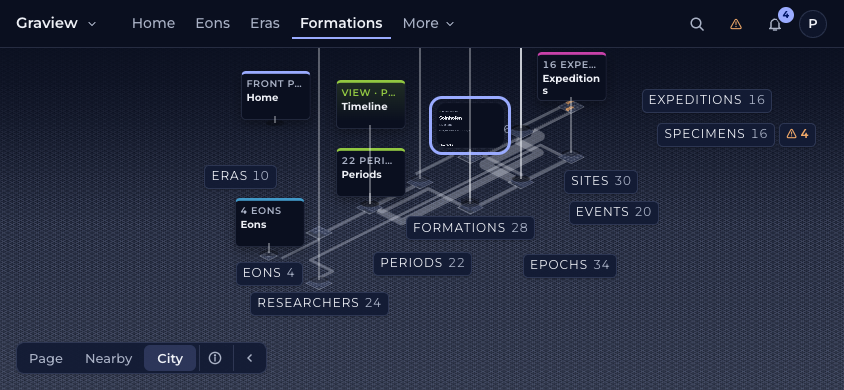
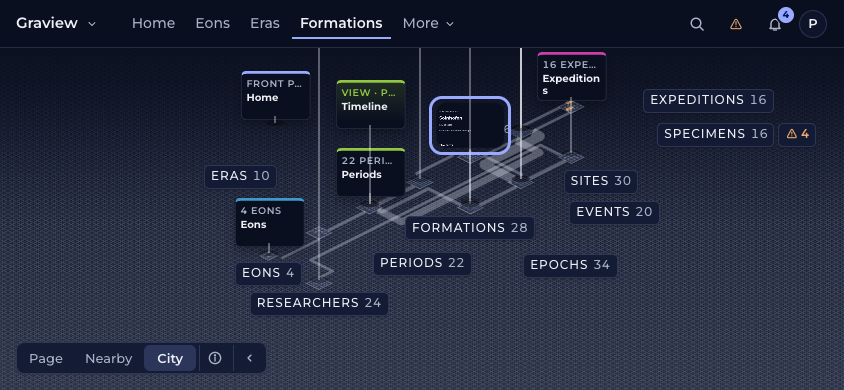
A page chosen at the City is drawn before it moves, a pressed building keeps its place, and a district's name travels by its middle

diff --git a/packages/pages/src/one-place-city.tsx b/packages/pages/src/one-place-city.tsx
@@ -247,6 +247,25 @@ export function OnePlaceCity({ where, out, sheet, connected, boards, current, bo
     /** When the last frame was drawn: a move does not count a stall between two as time gone by. */
     let lastTick = 0;
     /*
+     * THE PAGE CHOSEN IS DRAWN BEFORE IT MOVES. A new place's page is drawn
+     * by its route — on a slow machine, in tasks long enough to stall the
+     * frames after it — so a move to another place begins only once two
+     * frames running have come quickly (or a while has gone by, whatever the
+     * page is still doing): the page's drawing lands before the move, not
+     * inside it.
+     */
+    let calmRun = 0;
+    let placeSeenAt = 0;
+    let placeSeen = "";
+    const drawnSince = (placeKey: string, now: number): boolean => {
+      if (placeKey !== placeSeen) {
+        placeSeen = placeKey;
+        placeSeenAt = now;
+        calmRun = 0;
+      }
+      return calmRun >= 2 || now - placeSeenAt > 700;
+    };
+    /*
      * A PLACE READ AGAIN AT REST IS GONE TO, NOT JUMPED TO. Once the camera
      * is written the Scene lays the city out again at that zoom, and a board
      * or a name placed from it may stand a little elsewhere: it goes there
@@ -525,8 +544,22 @@ export function OnePlaceCity({ where, out, sheet, connected, boards, current, bo
     };
     const moveTo = (cam: SceneCamera, toLevel: number, anchor: Point, now: number) => {
       const from = painted;
+      /*
+       * A PAGE CHOSEN AT REST LEAVES FROM WHERE ITS BOARD STANDS THERE. A
+       * building pressed at the City makes its record the page, and that page's
+       * board was placed nowhere yet: it would have started from where it will
+       * stand beside the page, forty pixels from the building pressed. Placed
+       * first where the camera rests, so the move carries it from there.
+       */
+      // Where everything is drawn now is where it moves from: the page's own board, placed only now, joins them from where it stands at rest.
       const namesFrom = drawnNames(now);
       const slotsFrom = drawnSlots(now);
+      const own = state.current.current;
+      if (rest !== PAGE && !move && !slots.has(own) && level(painted)) {
+        standAll(world, cam.zoom(), LEVEL_LIVE, shownAt(rest), rest);
+        const at = slots.get(own);
+        if (at) slotsFrom.set(own, at);
+      }
       settle = null;
       const to = cameraFor(toLevel, anchor, cam.zoom());
       placeFor(toLevel, to, cam.zoom());
@@ -580,6 +613,7 @@ export function OnePlaceCity({ where, out, sheet, connected, boards, current, bo
         if (move) move.start += lost;
         if (settle) settle.start += lost;
       }
+      calmRun = lastTick > 0 && now - lastTick < 50 ? calmRun + 1 : 0;
       lastTick = now;
       if (rebaseNext) {
         rebase(rebaseNext);
@@ -660,7 +694,7 @@ export function OnePlaceCity({ where, out, sheet, connected, boards, current, bo
       }
 
       /* WHAT IS ASKED: a level (Up, Down, a press), or a scrub of the altitude by a hand on the page. */
-      if (ready && calm && anchor && asking.level !== null && !move && !settling) {
+      if (ready && calm && anchor && asking.level !== null && !move && !settling && (placeKey === lastPlace || drawnSince(placeKey, now))) {
         const toLevel = asking.level;
         asking.level = null;
         if (toLevel !== rest || placeKey !== lastPlace) moveTo(cam, toLevel, anchor, now);
@@ -790,7 +824,7 @@ export function OnePlaceCity({ where, out, sheet, connected, boards, current, bo
       }
 
       // Moving to another place at a level above the page: the camera flies there and stays at that level.
-      if (rest !== PAGE && !move && !asking.scrubbing && anchor && placeKey !== lastPlace && !settling && calm && holder.querySelector("[data-graview-settled]")) {
+      if (rest !== PAGE && !move && !asking.scrubbing && anchor && placeKey !== lastPlace && !settling && calm && holder.querySelector("[data-graview-settled]") && drawnSince(placeKey, now)) {
         lastPlace = placeKey;
         // Chosen at the city — a Find result, a link — a page lands beside the city, as a view chosen there does.
         moveTo(cam, rest === CITY ? PANEL : rest, anchor, now);
@@ -938,8 +972,15 @@ export function OnePlaceCity({ where, out, sheet, connected, boards, current, bo
         }
         el.style.visibility = "visible";
         el.style.opacity = seen.toFixed(3);
-        const said = { x: was.x + (place.x - was.x) * along, y: was.y + (place.y - was.y) * along, width: place.width, height: place.height };
-        const top = project(painted, { x: said.x + said.width / 2, y: said.y });
+        /*
+         * The name's middle goes from where it was to where it will be. Its box
+         * at the end of a move is the size it is in the picture there — a size
+         * on the screen taken through a camera much further out is many times
+         * wider in the picture — so the middle is carried, never the left edge
+         * with the width at the end: that put a name a hundred pixels off in
+         * the first frame of a move to the City.
+         */
+        const top = project(painted, { x: was.x + was.width / 2 + (place.x + place.width / 2 - (was.x + was.width / 2)) * along, y: was.y + (place.y - was.y) * along });
         el.style.left = `${(top.x - el.offsetWidth / 2).toFixed(2)}px`;
         el.style.top = `${top.y.toFixed(2)}px`;
         const covered = under({ x: top.x - el.offsetWidth / 2, y: top.y, width: el.offsetWidth, height: el.offsetHeight });

diff --git a/packages/react/src/plots.tsx b/packages/react/src/plots.tsx
@@ -138,7 +138,7 @@ export function Plots({ frame, width, height, pan, pinned, close, today, swallow
     const members = node.aggregate?.memberIds ?? [];
     const state = districtState(store.schema, node.kind);
     const valueOf = (id: string) => (state ? (store.graph.getNode(id) as Record<string, unknown> | undefined)?.[state.field] : undefined);
-    /* A chosen record is never one of the "+504": it stands first in its row, so its building is there to light and to draw its links from. */
+    /* A chosen record is never one of the "+504": where it would be, it stands first in its row, so its building is there to light and to draw its links from... */
     const first = members.filter((id) => chosen.includes(id));
     const key = `${cell}|${tilt}|${node.plot!.col},${node.plot!.row},${node.plot!.side}|${first.join(",")}|${members.map((id) => `${id}=${String(valueOf(id))}`).join(",")}`;
     const held = drawn.current.get(node.id);
@@ -157,8 +157,18 @@ export function Plots({ frame, width, height, pan, pinned, close, today, swallow
       names.set(id, name);
       return name;
     };
-    const { lanes, tiers } = districtLanes(state, members, valueOf, first);
-    const { blocks, rests } = districtBlocks(node.plot!, lanes, tiers.map((tier) => TIER_HEIGHT[tier]));
+    /*
+     * ...AND ONLY WHERE IT WOULD NOT STAND OTHERWISE. A chosen record whose
+     * building is drawn where it is keeps its place: brought to the front of
+     * its row whenever it was chosen, a building pressed in the city moved
+     * forty pixels under the press as its page opened, and the page left
+     * from where the building no longer stood.
+     */
+    const plain = districtLanes(state, members, valueOf, []);
+    const plainBlocks = districtBlocks(node.plot!, plain.lanes, plain.tiers.map((tier) => TIER_HEIGHT[tier]));
+    const standing = first.every((id) => plainBlocks.blocks.some((block) => block.id === id));
+    const { lanes, tiers } = standing ? plain : districtLanes(state, members, valueOf, first);
+    const { blocks, rests } = standing ? plainBlocks : districtBlocks(node.plot!, lanes, tiers.map((tier) => TIER_HEIGHT[tier]));
     const corners = tileCorners(node.plot!, at0, none);
     // A record's due date past and not done: overdue, lit like a problem.
     const due = state ? dueField(store.schema, node.kind) : undefined;

diff --git a/packages/pages/src/one-place.tsx b/packages/pages/src/one-place.tsx
@@ -461,12 +461,29 @@ export function OnePlace<S extends AnySchema>({ context, children }: { readonly 
   }, [where.type]);
 
   /** Another place, at a level: its address, and the camera asked to that level there. */
+  /*
+   * THE PAGE CHOSEN IS DRAWN FIRST, THEN IT MOVES. Asked for at the same
+   * moment as the address, the level began to move the page that was being
+   * left while the chosen one's route was still drawing — on a slow machine
+   * one long task, which landed inside the move as a leap. The level is
+   * asked once the new address has drawn and been painted.
+   */
+  const pendingLevel = useRef<{ readonly path: string; readonly level: number } | null>(null);
+  useEffect(() => {
+    const pending = pendingLevel.current;
+    if (!pending || pending.path !== location.pathname) return;
+    pendingLevel.current = null;
+    const frame = requestAnimationFrame(() => {
+      motion.current.level = pending.level;
+    });
+    return () => cancelAnimationFrame(frame);
+  }, [location.pathname]);
   const openAt = useCallback(
     (path: string, level: number) => {
       if (path.split("?")[0] === location.pathname) return goLevel(level);
       if (level > PAGE) keep();
       kept.current = level > PAGE ? { scrollY: 0, address: path } : null;
-      motion.current.level = level;
+      pendingLevel.current = { path: path.split("?")[0]!, level };
       if (level > PAGE) setNow((was) => (was.away ? was : { ...was, away: true }));
       navigate(path);
     },

diff --git a/.changeset/one-face-city-reads-clean.md b/.changeset/one-face-city-reads-clean.md
@@ -5,10 +5,10 @@
 
 The one face's City and Nearby read clean on a rich app (Graview HQ feature:f-one-face-city-reads-clean, f-one-face-nearby-shows-records). On a copy of Deep Time — eleven kinds, about three hundred records, ten worker views — the City had boards standing on district names and on districts, most districts said no name, the legend stood open over a quarter of the window, and ten views' boards each listed the first records of their kind; at Nearby each district was a near-opaque card over its own buildings, and no view stood there.
 
-Now the one face places the city's words itself (`placeSigns`), on the screen as the camera will have them, so where a move heads and what is placed once it arrives are one answer. Each kind's views stand on their own district: a card over its back, its post coming down onto the district's own ground, never on another district or in a column off to the side; the page being read stands on its building on a post as tall as it needs; the views of no one kind stand on the plaza. Then each district's name, beside it or under it and never over its buildings. Nothing placed stands on anything placed before it, nor under the bar, the page or the level control — after a hand's pan too, when anything brought under one of them is put away until it comes out again. Every board and name travels between levels with the camera, comes up or goes down where it has no place to come from or go to, and goes over a moment to where it is placed again once the camera is written, never jumping; a move slows through a stalled frame rather than leaping. Placing is kept for the same city and window and carried along a pan, and stays cheap with sixty views of one kind.
+Now the one face places the city's words itself (`placeSigns`), on the screen as the camera will have them, so where a move heads and what is placed once it arrives are one answer. Each kind's views stand on their own district: a card over its back, its post coming down onto the district's own ground, never on another district or in a column off to the side; the page being read stands straight over its own building, on a post as tall as it needs to clear what is round it, and a page chosen at the City leaves from there; the views of no one kind stand on the plaza. Then each district's name, beside it or under it and never over its buildings. Nothing placed stands on anything placed before it, nor under the bar, the page or the level control — after a hand's pan too, when anything brought under one of them is put away until it comes out again. Every board and name travels between levels with the camera, comes up or goes down where it has no place to come from or go to, and goes over a moment to where it is placed again once the camera is written, never jumping; a move slows through a stalled frame rather than leaping, and a page chosen at the City is drawn before it moves, so the drawing of the chosen page never lands inside the move. Placing is kept for the same city and window and carried along a pan, and stays cheap with sixty views of one kind.
 
-Each district's name is a control: it opens the district's list beside the city, and its problems, where it has any, are a chip beside it that opens them; the Scene's own district cards stand down on this face. The views stand at Nearby as at the City, where they have room, at most a fixed size on the screen. A view's board says whose view it is over its own title ("View · species", "Tree of life"), on two lines before it is cut; a list's says how many it holds and its first record. Beside the home the city is framed in the part the page leaves it. On a small window (a phone, or one turned on its side) a board's words are never under 9 pixels: the City pans rather than shrink them, and beside a page a board stands only where it can be read. A board the keyboard can reach is one that is seen. The level control shows one chosen level after the keys: a page with no title of its own takes the keyboard on its main part, not on the control. The legend is a button: closed until the Key opens it, then kept open in this browser until it is put away. In the Scene, a building's name keeps five pixels clear of the next (two read as one run of words) and is drawn a weight heavier, its letters reckoned a little wider for it.
+Each district's name is a control: it opens the district's list beside the city, and its problems, where it has any, are a chip beside it that opens them; the Scene's own district cards stand down on this face. The views stand at Nearby as at the City, where they have room, at most a fixed size on the screen. A view's board says whose view it is over its own title ("View · species", "Tree of life"), on two lines before it is cut; a list's says how many it holds and its first record. Beside the home the city is framed in the part the page leaves it. On a small window (a phone, or one turned on its side) a board's words are never under 9 pixels: the City pans rather than shrink them, and beside a page a board stands only where it can be read. A board the keyboard can reach is one that is seen. The level control shows one chosen level after the keys: a page with no title of its own takes the keyboard on its main part, not on the control. The legend is a button: closed until the Key opens it, then kept open in this browser until it is put away. In the Scene, a chosen record is brought to the front of its row only where it would otherwise be one of the "+n", so a building pressed in the city stays where it is as its page opens; and a building's name keeps five pixels clear of the next (two read as one run of words) and is drawn a weight heavier, its letters reckoned a little wider for it.
 
 Tests: `the-city-says-every-name-and-stands-every-view-clear` (pages) holds that every district is named on no other district's ground, no other name and none of its buildings, that no board stands on another, a name or a district's ground and the page's own stands on its building, that each view's post comes down onto its own district, that a name inside what the camera shows slides along its district, and that sixty views of one kind among forty districts and a thousand buildings are placed in under 8 ms. `verify-one-face` holds the same on Deep Time at its size, dark, at 1520, 1280, 768, 390 and 360 wide and 844 by 390: nothing said stands on anything else, each kind's board stands on its own district even where the page covers one, no name or title is cut off or wraps, no board's words under 9 pixels on a small window, no board or name leaps between frames, everything the keyboard reaches is seen, the level control shows one level, a district's problems open from the City and Nearby by pointer and keyboard, the home frames the city beside the page, the legend stays open once opened, and every line at Nearby ends on a building.
 
-Compatibility: the look — changed on the one face only (`sceneUnderPages`): the districts' names and their problems are the face's own controls, the views stand on their districts and at Nearby, boards say what they are, the legend starts closed, a small window's boards are larger and its City pans; a building's name in the Scene is a weight heavier and spaced wider. The JavaScript API — unchanged. Ops and primitives — unchanged. Stored formats — unchanged. The wire — unchanged. The declaration and check finding codes — unchanged. Derived tool names and input schemas — unchanged.
+Compatibility: the look — changed on the one face only (`sceneUnderPages`): the districts' names and their problems are the face's own controls, the views stand on their districts and at Nearby, boards say what they are, the legend starts closed, a small window's boards are larger and its City pans; a building's name in the Scene is a weight heavier and spaced wider, and a chosen record's building moves to the front of its row only where it would otherwise not be drawn. The JavaScript API — unchanged. Ops and primitives — unchanged. Stored formats — unchanged. The wire — unchanged. The declaration and check finding codes — unchanged. Derived tool names and input schemas — unchanged.
